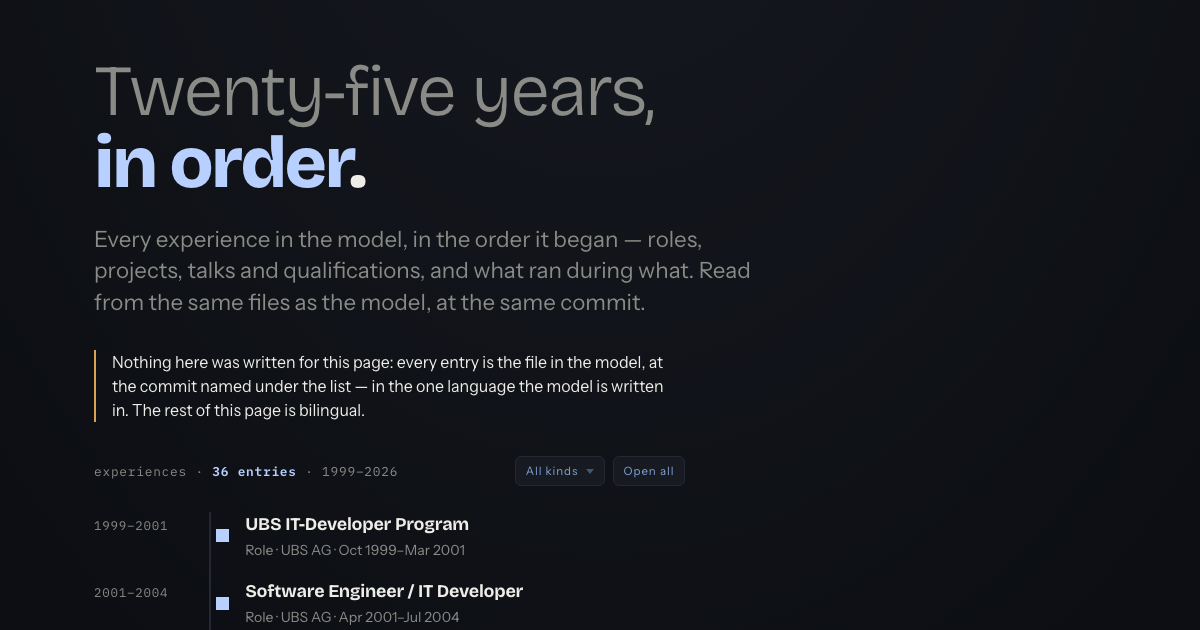
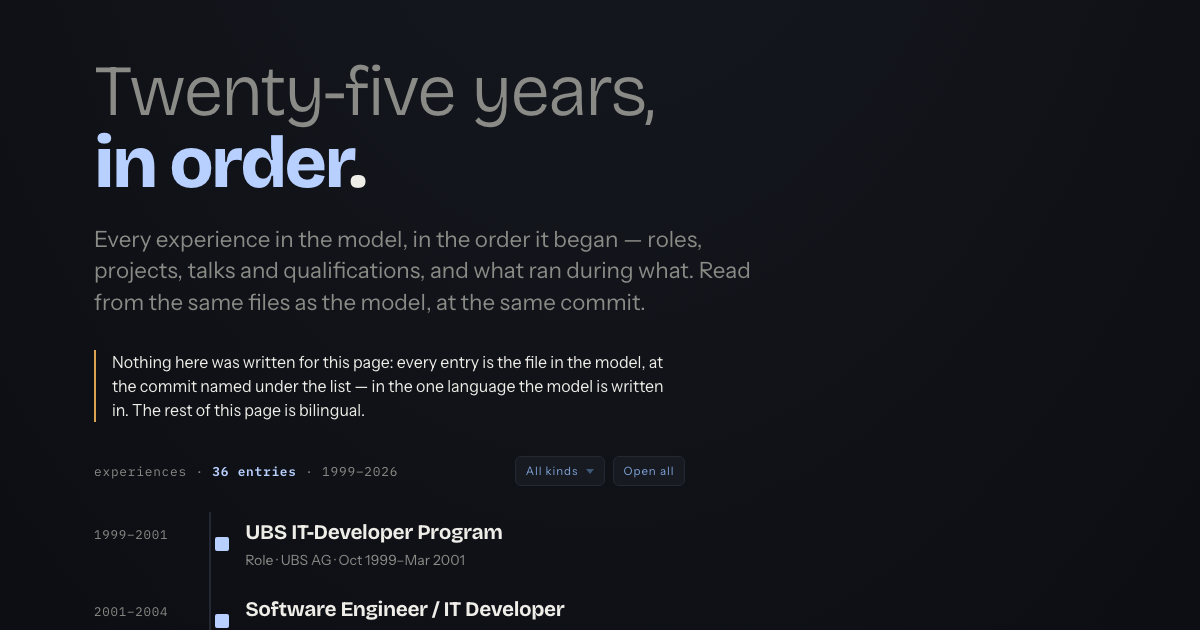
Design v0.44.0: the ledger's mark is the kind
The release draws each kind as its own mark and lets the track lead the type; this page
had already marked the rows under a track and widened its rule to independent periods, and
now carries the stylesheet that draws them. The timeline card is re-rendered because the
ledger changed; the model card keeps its pixels and takes the new page hash.

Verified: design:check, pin:check, og:check, model:check and principles:check pass; npm run verify passes on every page against a served copy.

Changed region(s): [[0.0925, 0.8143, 0.4625, 0.9952], [0.0617, 0.8143, 0.1542, 0.8746]]

diff --git a/stage.css b/stage.css
@@ -292,21 +292,38 @@
   .ledger summary::-webkit-details-marker{display:none}
   .ledger summary:focus-visible{outline:2px solid var(--c-mid); outline-offset:3px; border-radius:3px}
   .ledger .when{font-family:"Plex Mono",monospace; font-size:.78rem; letter-spacing:.06em; color:var(--dim); font-variant-numeric:tabular-nums; white-space:nowrap}
-  /* The mark is the square the drawing gives a page, on the rule: the larger one in --c-firm
-     for a role or an independent period, the smaller in --c-mid for the rest; while the row
-     is open it wears the ring the focused node wears. */
+  /* The mark is the kind, drawn the way the model page's drawing gives every type a shape,
+     so a reader tells a talk from a project before reading the line under the name. Two
+     kinds are the track: a role is a filled square in --c-firm and an independent period a
+     hollow one of the same size, the same track with no employer on it. The rest are one
+     size down in --c-mid: a project a hollow diamond, community work a circle, education a
+     triangle. A kind the stylesheet does not know keeps the plain square. While the row is
+     open the mark wears the ring the focused node wears, on the box and not the shape, so
+     the ring is one ring whatever the shape inside it. */
   .ledger .mark{position:relative; align-self:center; width:1.25rem; height:1rem}
   .ledger .mark::after{content:""; position:absolute; left:calc(50% - 5px); top:calc(50% - 5px); width:10px; height:10px; background:var(--c-mid)}
-  .ledger .k-role .mark::after, .ledger .k-independent .mark::after{width:13px; height:13px; left:calc(50% - 6.5px); top:calc(50% - 6.5px); background:var(--c-firm)}
-  .ledger details[open] > summary .mark::after{outline:2px solid var(--ink); outline-offset:1px}
-  .ledger .what{padding-left:calc(var(--lvl, 0) * 1.5rem); min-width:0}
-  .ledger .name{font-weight:600; color:var(--ink)}
-  .ledger .k-role .name, .ledger .k-independent .name{font-family:"Bricolage Grotesque", ui-sans-serif, system-ui, sans-serif; font-weight:700; letter-spacing:-.015em; font-size:1.12rem}
-  .ledger .meta{display:block; color:var(--dim); font-size:.88rem; margin-top:.1rem}
+  .ledger .k-role .mark::after, .ledger .k-independent .mark::after{width:14px; height:14px; left:calc(50% - 7px); top:calc(50% - 7px); background:var(--c-firm); border-radius:2px}
+  .ledger .k-independent .mark::after{background:var(--ground); border:2.5px solid var(--c-firm); box-sizing:border-box}
+  .ledger .k-project .mark::after{width:9px; height:9px; left:calc(50% - 4.5px); top:calc(50% - 4.5px); background:var(--ground); border:2px solid var(--c-mid); box-sizing:border-box; transform:rotate(45deg)}
+  .ledger .k-community .mark::after{border-radius:50%}
+  .ledger .k-education .mark::after{width:11px; height:10px; left:calc(50% - 5.5px); top:calc(50% - 5px); clip-path:polygon(50% 0, 100% 100%, 0 100%)}
+  .ledger details[open] > summary .mark::before{content:""; position:absolute; left:calc(50% - 10px); top:calc(50% - 10px); width:20px; height:20px; box-sizing:border-box; border:2px solid var(--ink); border-radius:3px}
+  /* The track leads: a role or an independent period reads a size up in the title face with
+     air above it, everything that began inside one reads a size down at a lighter weight,
+     further in, and bundles on a dotted stem. The stem is drawn on a row the page marks
+     `under`, because the page is what knows that a row began while a track ran; a page that
+     sets --lvl and no class gets the indent and no stem. */
+  .ledger .what{padding-left:calc(var(--lvl, 0) * 2.2rem); min-width:0}
+  .ledger .name{font-weight:500; color:var(--ink); font-size:.95rem}
+  .ledger .k-role .name, .ledger .k-independent .name{font-family:"Bricolage Grotesque", ui-sans-serif, system-ui, sans-serif; font-weight:700; letter-spacing:-.02em; font-size:1.3rem}
+  .ledger .k-role summary, .ledger .k-independent summary{padding-top:.9rem}
+  .ledger li.under::before{content:""; position:absolute; left:calc(var(--when) + 2.95rem); top:0; bottom:0; border-left:1px dotted var(--c-weak)}
+  .ledger .meta{display:block; color:var(--dim); font-size:.8rem; margin-top:.1rem}
+  .ledger .k-role .meta, .ledger .k-independent .meta{font-size:.88rem}
   .ledger summary:hover .name{color:var(--c-mid)}
   .ledger details[open] > summary .name{color:var(--c-firm)}
   /* The card opens under its row and takes the row's indent; the rule runs on past it. */
-  .ledger .body{padding:.3rem 0 1.3rem calc(var(--when) + 1.25rem + 1.6rem + var(--lvl,0) * 1.5rem); max-width:calc(72ch + 12rem)}
+  .ledger .body{padding:.3rem 0 1.3rem calc(var(--when) + 1.25rem + 1.6rem + var(--lvl,0) * 2.2rem); max-width:calc(72ch + 12rem)}
   .ledger .body .card{height:auto}
   .ledger .body .cbody{overflow:visible}
   /* The row leads the card: inside a ledger the card's title steps down to the row's scale,
